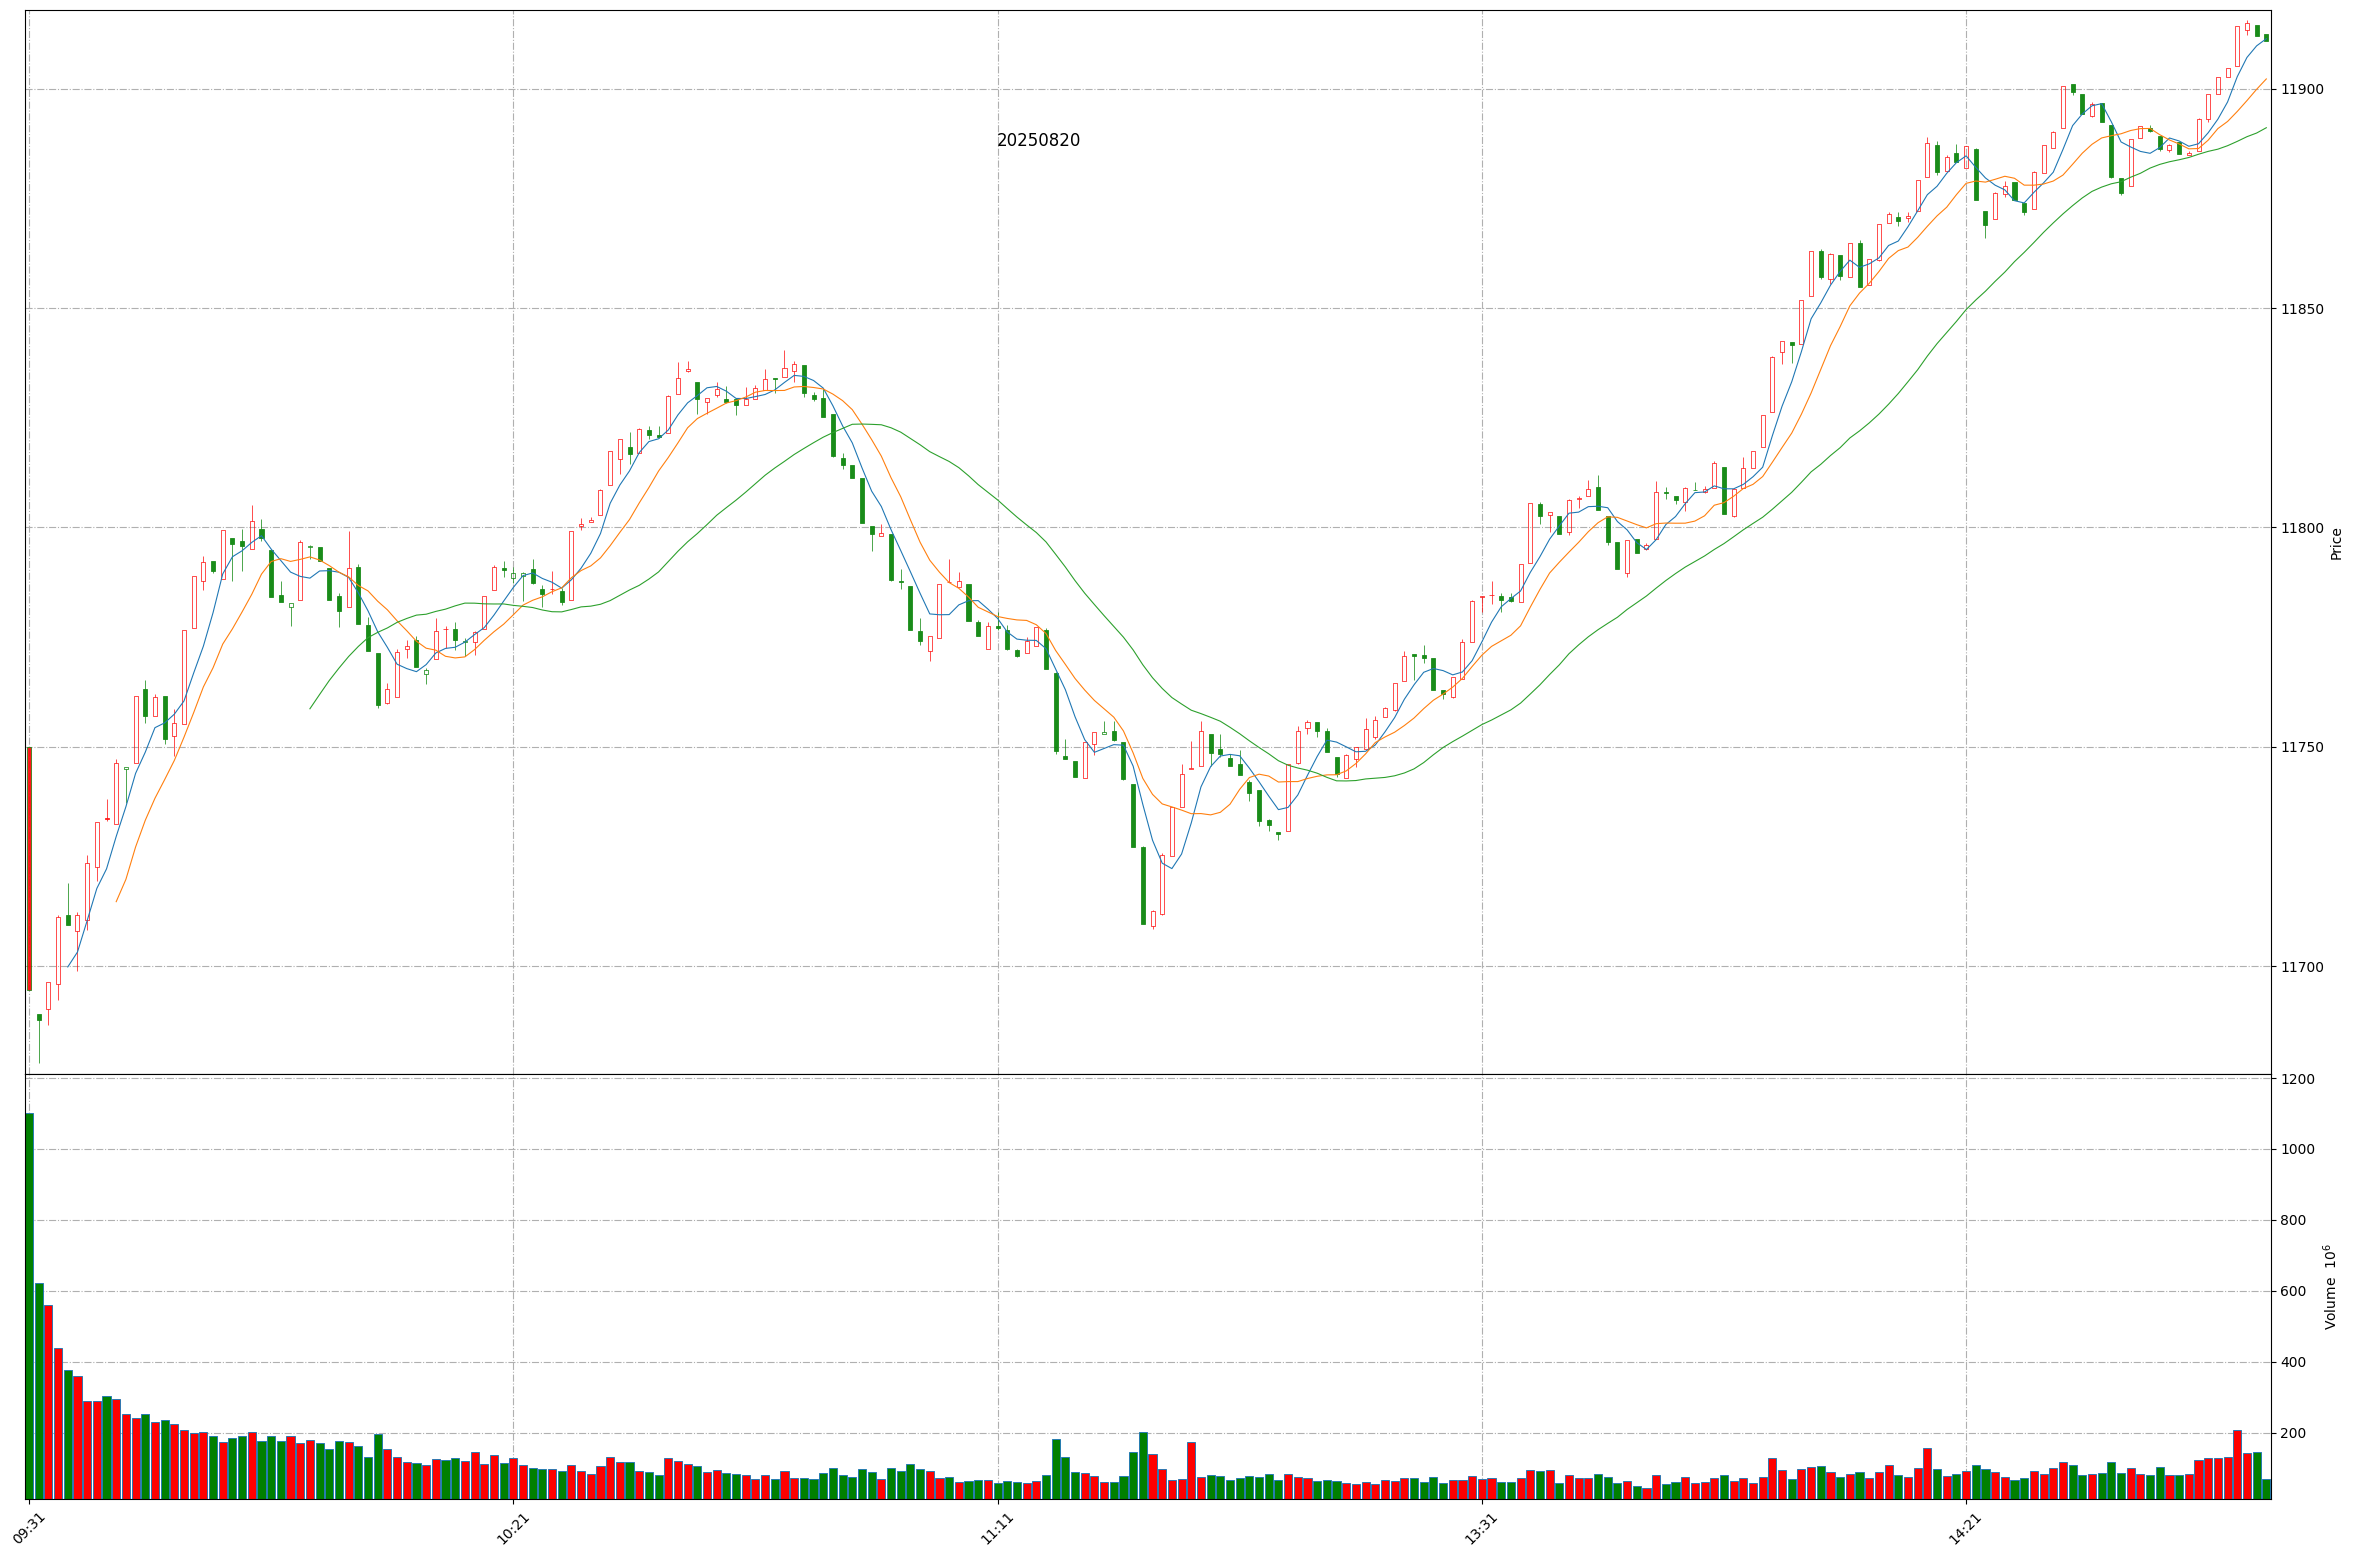
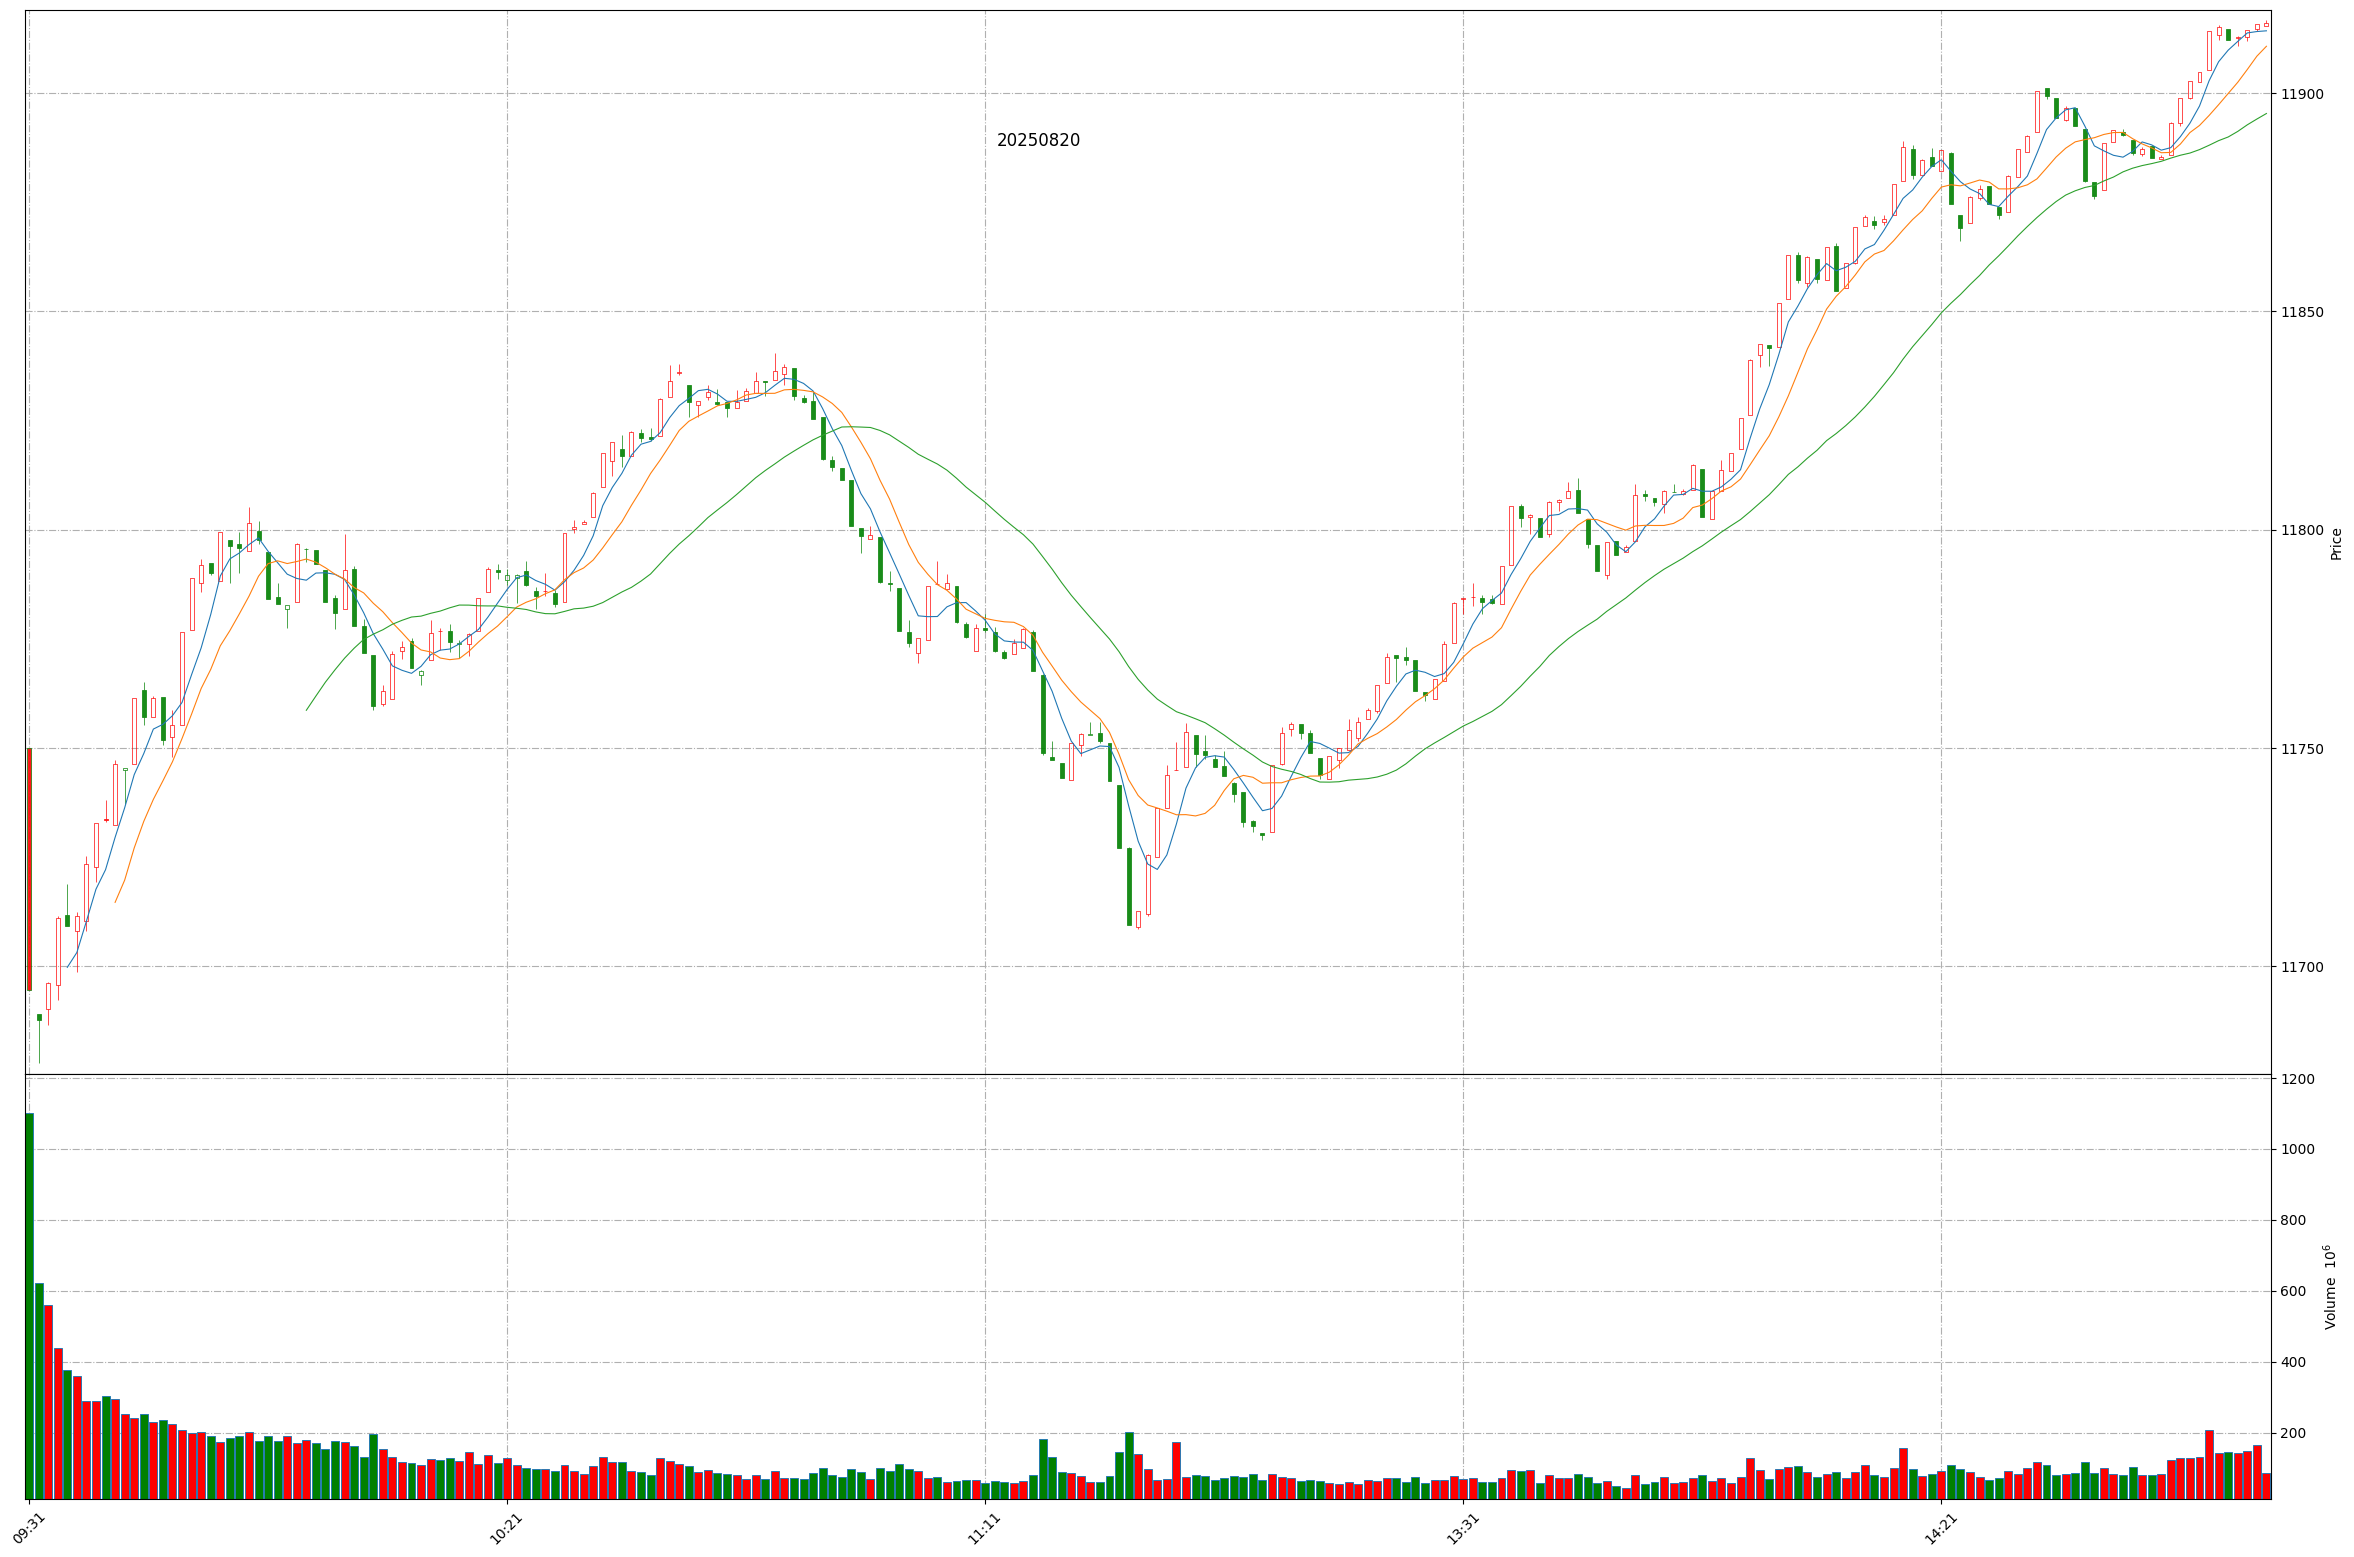
Github action update at 2025-08-20 14:56:39.

diff --git a/README.md b/README.md
@@ -1,11 +1,11 @@
 
 # Daily-A-share-market-quotes 每日 A 股指数（5min 更新）- 20250820
 
-### 上证指数 20250820 14:52
+### 上证指数 20250820 14:56
 ![](./fig/2025/8/20250820-sh000001.png)
 
-### 深证成指 20250820 14:52
+### 深证成指 20250820 14:56
 ![](./fig/2025/8/20250820-sz399001.png)
 
-### 北证50 20250820 14:52
+### 北证50 20250820 14:56
 ![](./fig/2025/8/20250820-bj899050.png)
